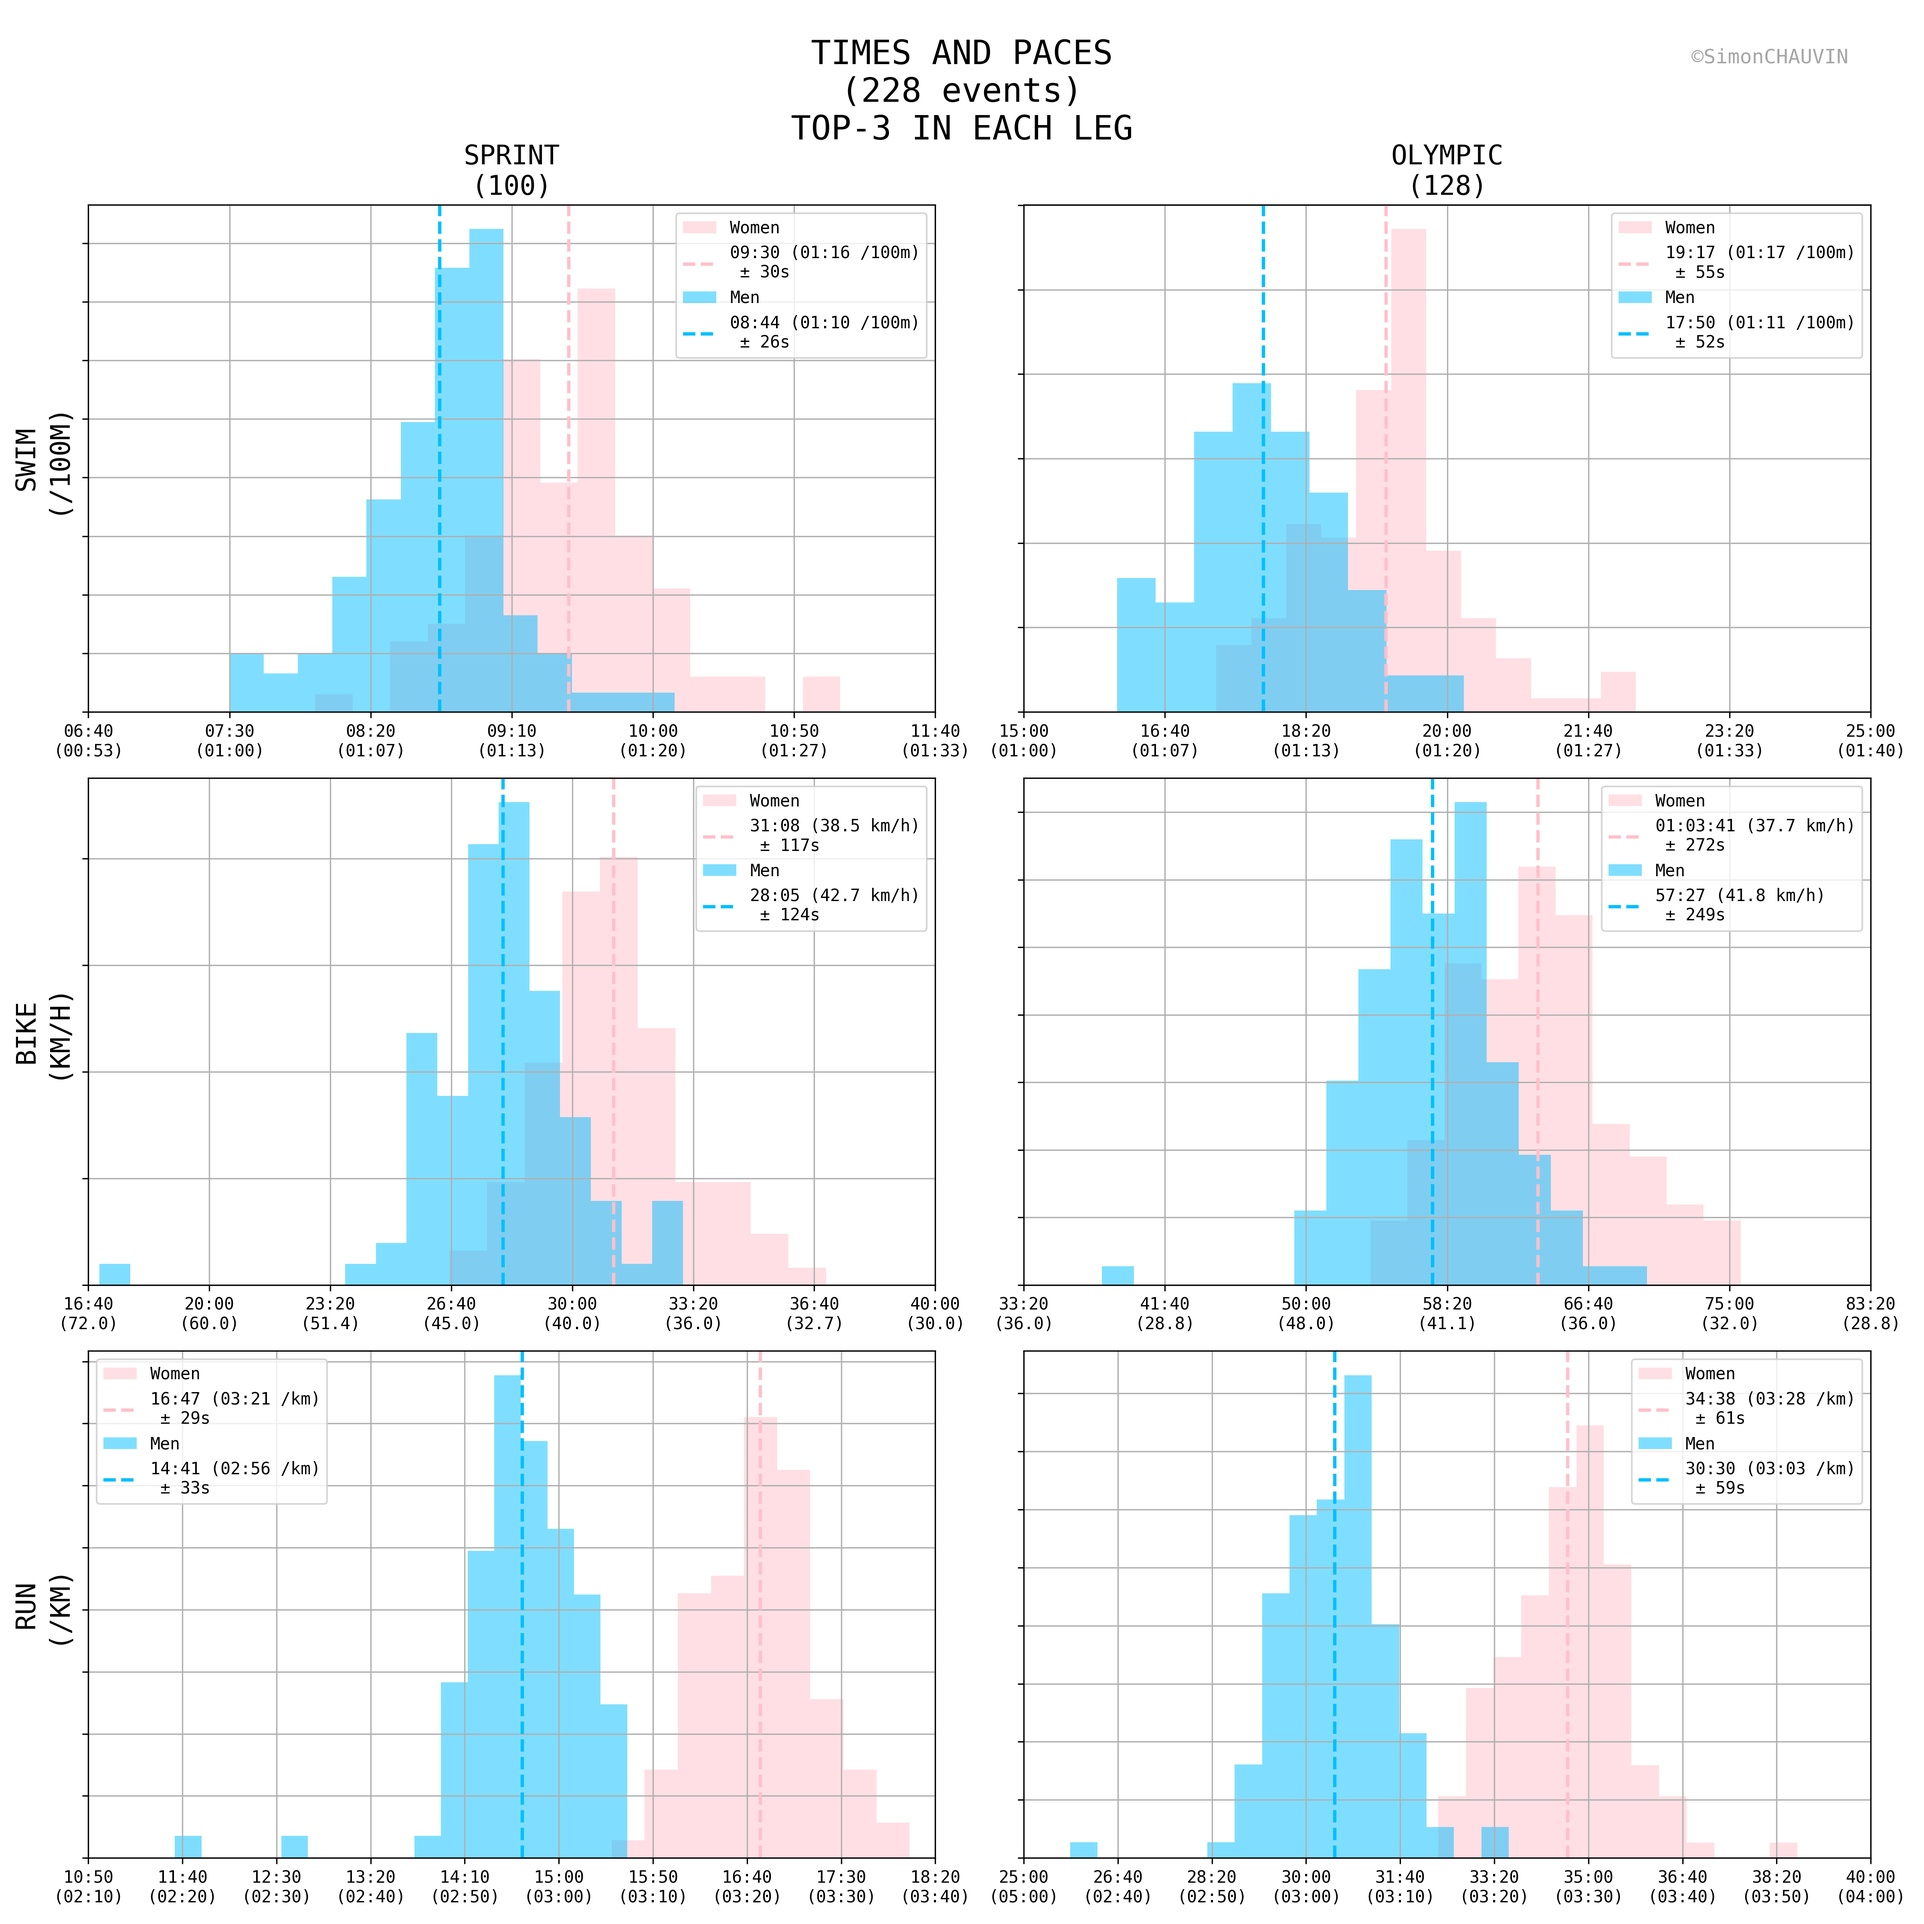
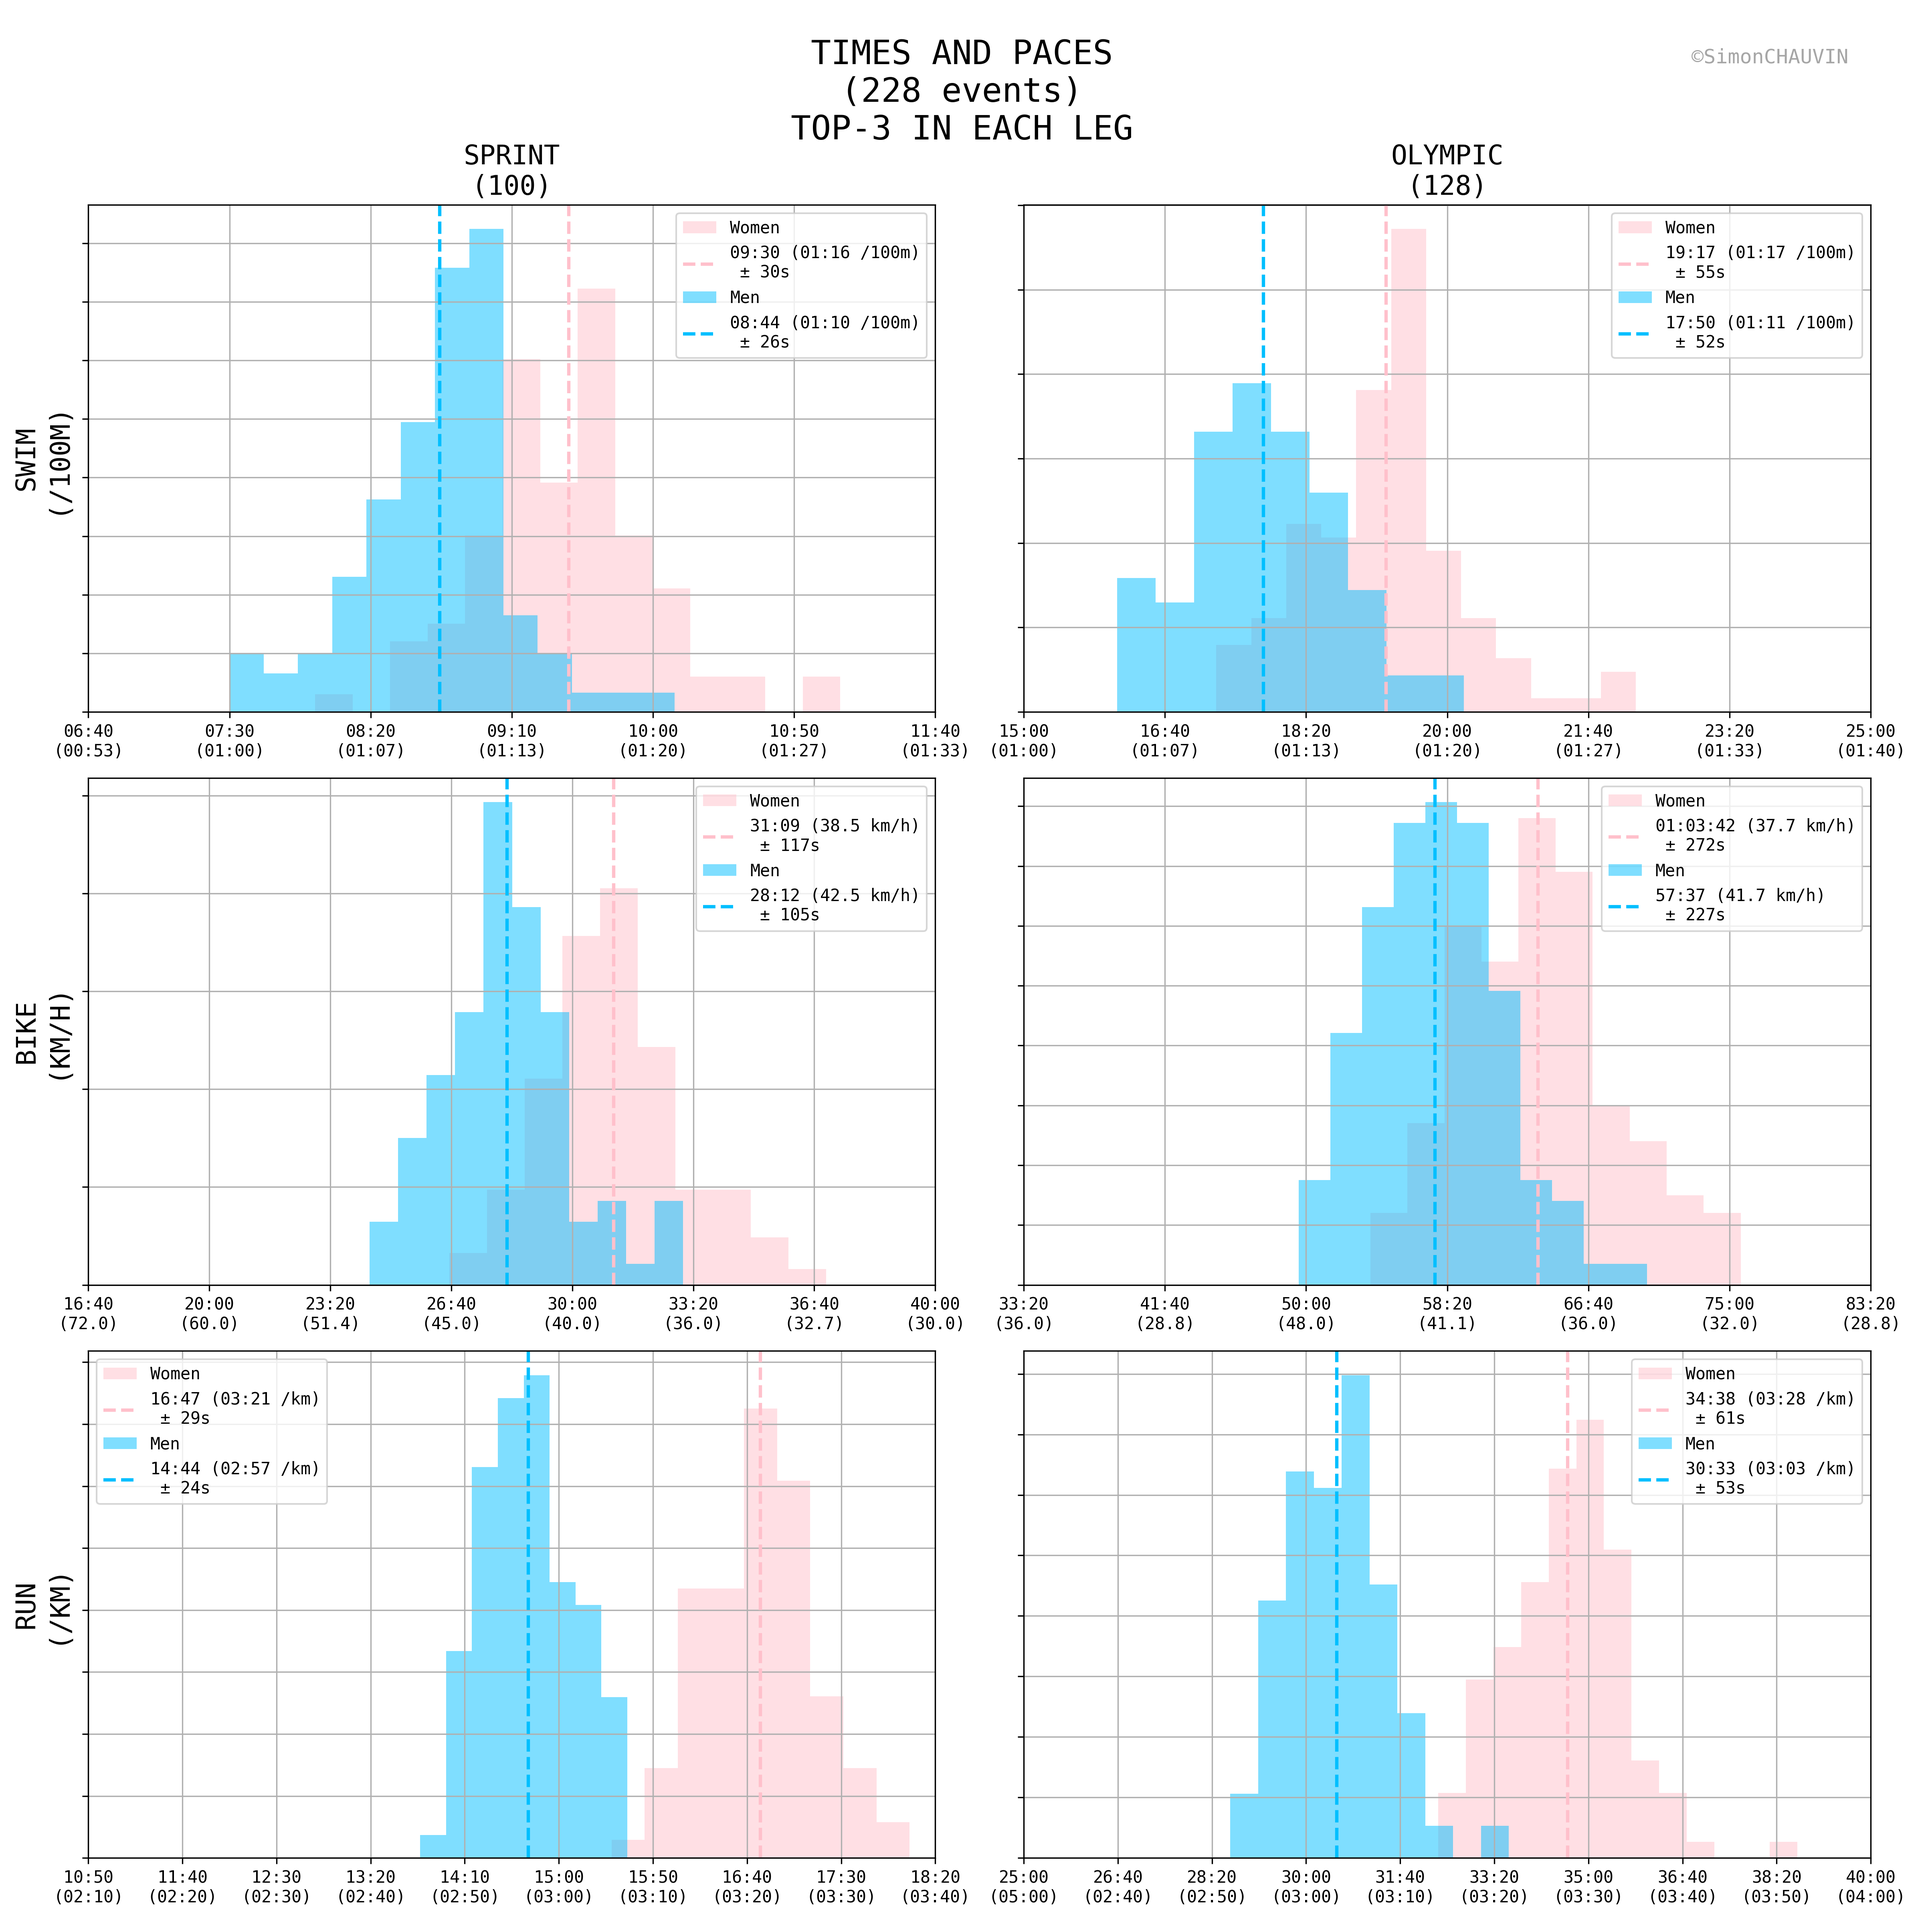
remove outlier

diff --git a/races.py b/races.py
@@ -1306,6 +1306,22 @@ def process_sports(df):
                     data = df[(df['prog_distance_category'] == distance_category) & (df['event_id'] != 54303)][
                         f"{sport}_mean_{suffix}"]
 
+                # if i_sport == 1 and distance_category == "standard":
+                #     data = df[(df['prog_distance_category'] == distance_category) & (df['event_id'] != 165396)][
+                #         f"{sport}_mean_{suffix}"]
+                #
+                # if i_sport == 1 and distance_category == "sprint":
+                #     data = df[(df['prog_distance_category'] == distance_category) & (df['event_id'] != 184828)][
+                #         f"{sport}_mean_{suffix}"]
+                #
+                # if i_sport == 2 and distance_category == "standard":
+                #     data = df[(df['prog_distance_category'] == distance_category) & (df['event_id'] != 80081)][
+                #         f"{sport}_mean_{suffix}"]
+                #
+                # if i_sport == 2 and distance_category == "sprint":
+                #     data = df[(df['prog_distance_category'] == distance_category) & (df['event_id'] != 78733) & (df['event_id'] != 153774)][
+                #         f"{sport}_mean_{suffix}"]
+
                 data_mean = data.mean()
                 data_std = data.std()
 
